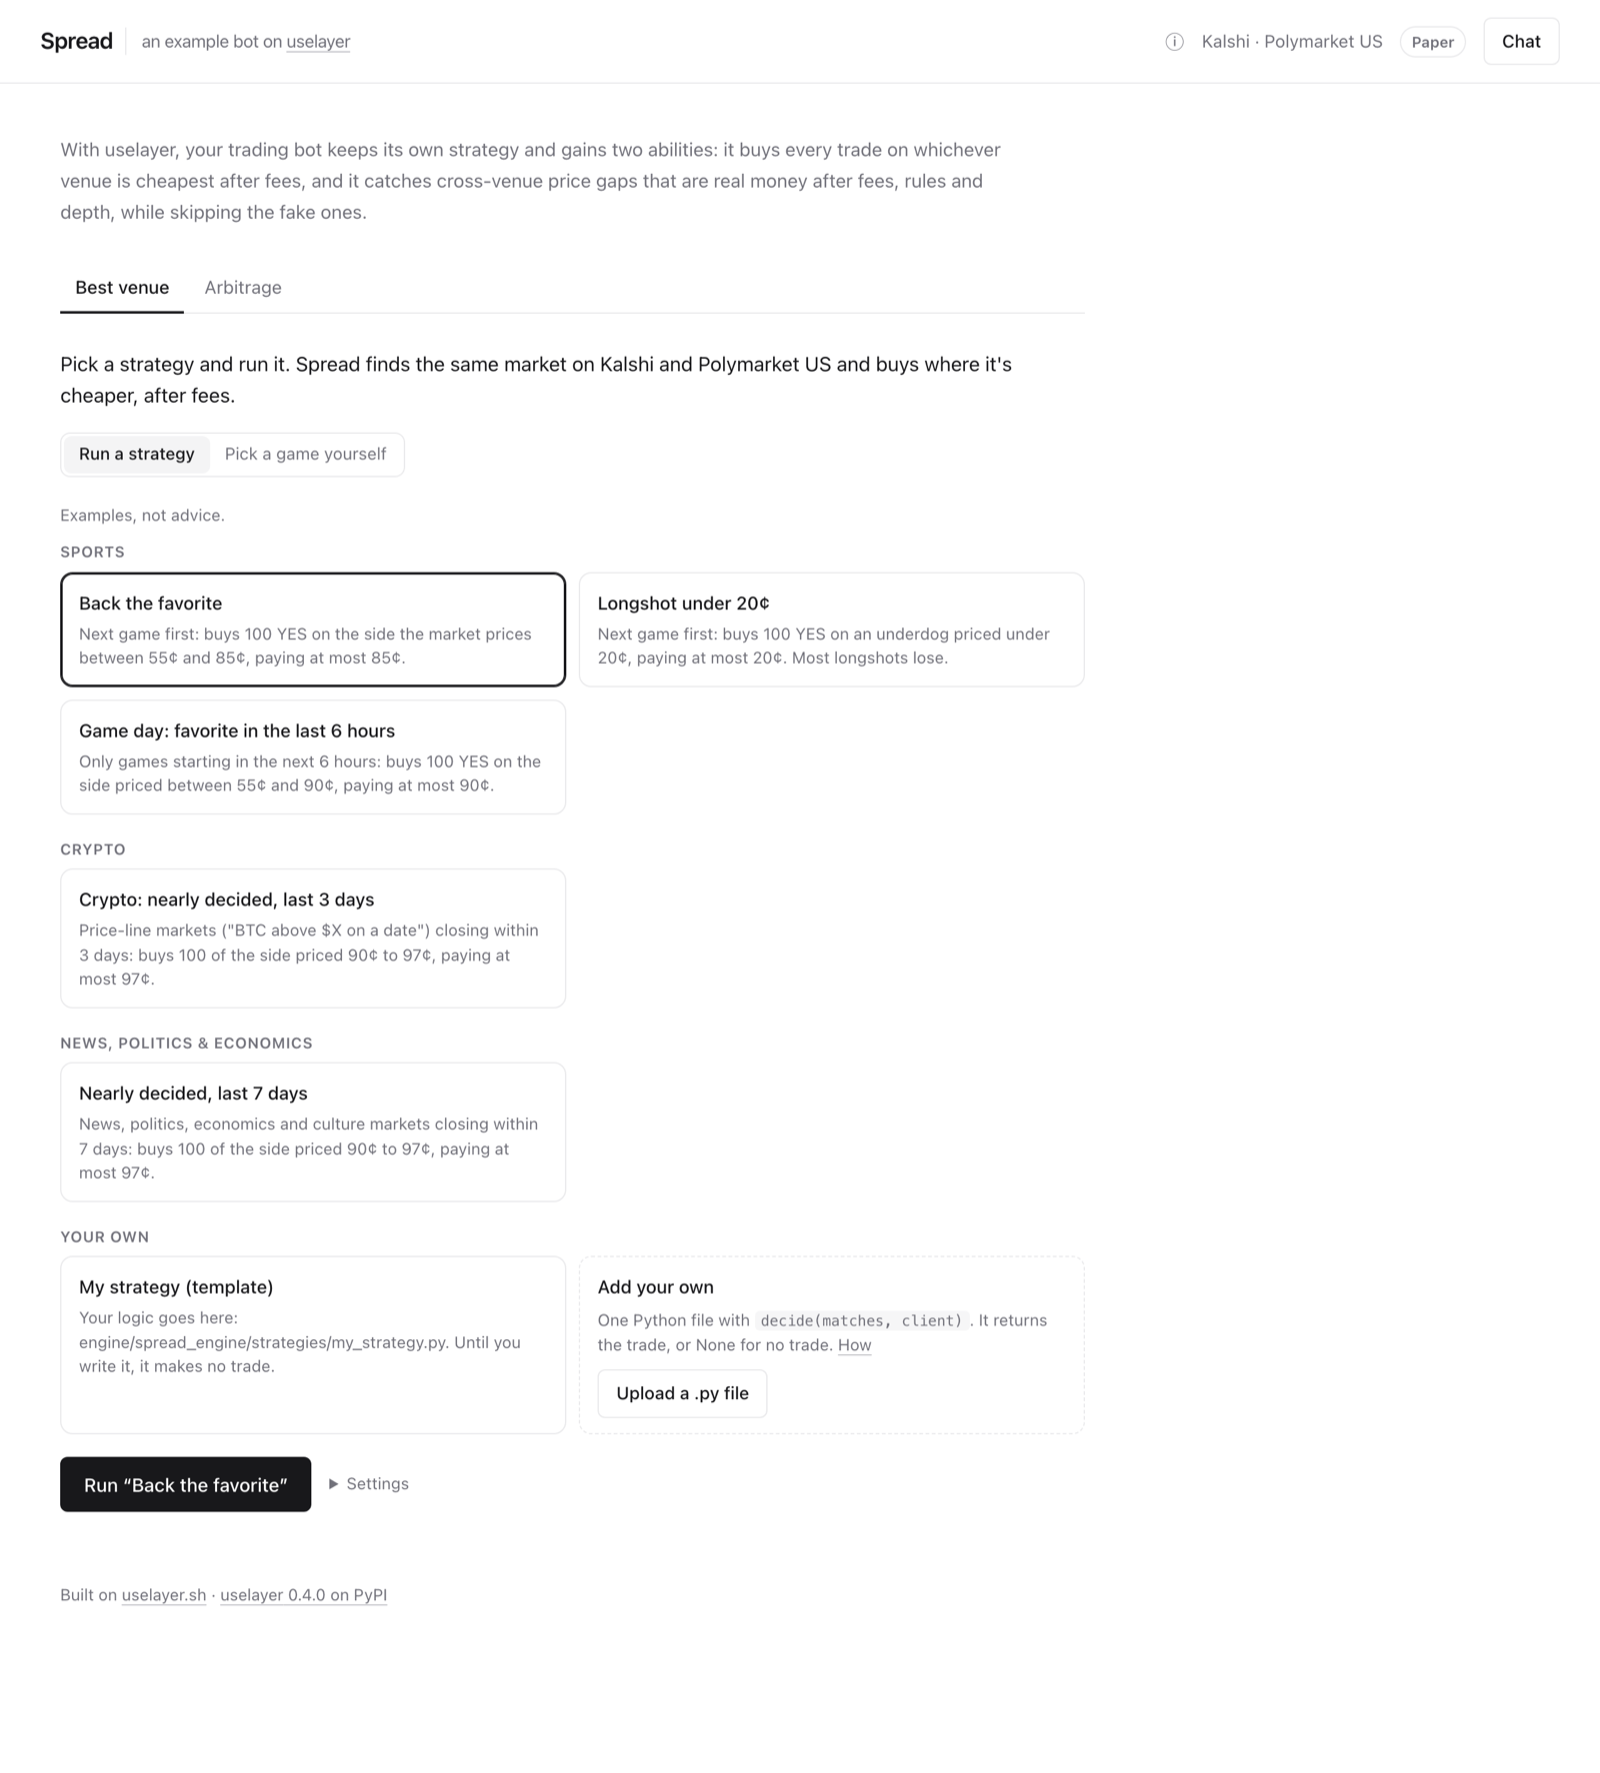
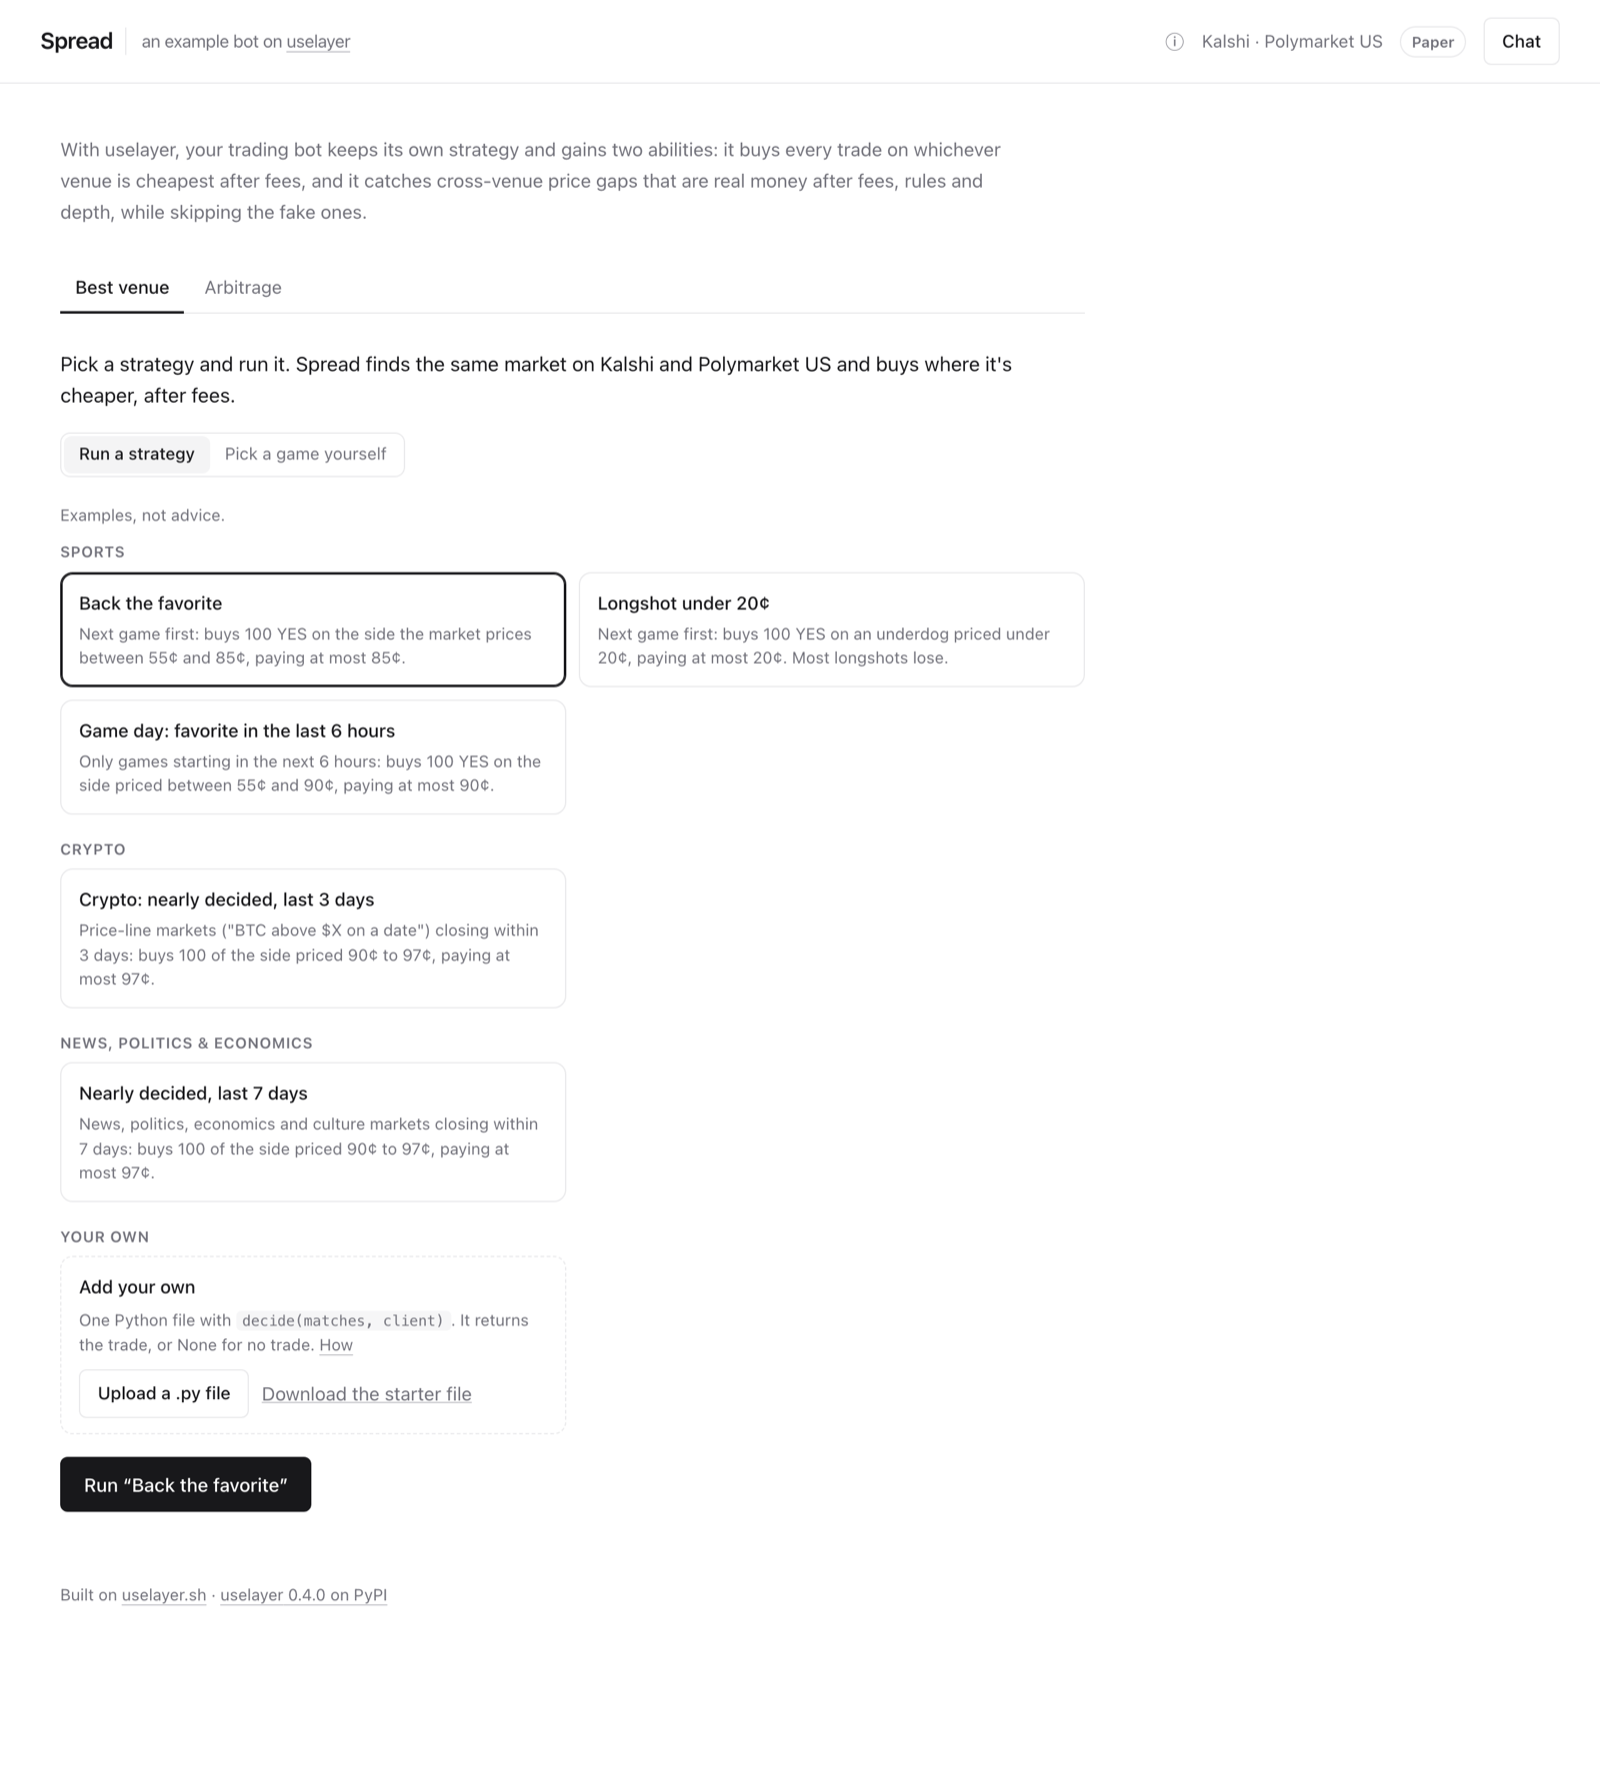
Best venue: starter file is a download, not a card; no search on the strategy path
- Engine: strategies.available() skips my_strategy.py (STARTER); new
  GET /strategies/starter returns its text; uploading over it is refused
  with one sentence. The file stays in the repo as the starting point.
- "Add your own" card: "Download the starter file" saves it as
  my_strategy.py through a client-side blob.
- Strategy path: the "Markets it looks at" search and its Settings fold
  are gone (each template picks its own markets). Pick a game yourself
  keeps its search.
- Tests, README, starter docstring and screenshots updated.

Changed region(s): [[0.0312, 0.7135, 0.3125, 0.8065], [0.375, 0.7135, 0.5625, 0.8065]]

diff --git a/components/BestVenue.tsx b/components/BestVenue.tsx
@@ -412,6 +412,19 @@ function AddYourOwn({ onAdded }: { onAdded: (b: StrategyList & { added: Strategy
   const [busy, setBusy] = useState(false);
   const input = useRef<HTMLInputElement>(null);
 
+  // The starter file (my_strategy.py), saved in the browser: edit it, rename it, upload it back.
+  async function download() {
+    try {
+      const b = await getJson<{ filename: string; code: string }>("/engine/strategies/starter");
+      const url = URL.createObjectURL(new Blob([b.code], { type: "text/x-python" }));
+      const a = Object.assign(document.createElement("a"), { href: url, download: b.filename });
+      a.click();
+      URL.revokeObjectURL(url);
+    } catch (e) {
+      setMsg({ text: e instanceof Error ? e.message : String(e), bad: true });
+    }
+  }
+
   async function send(file: File | undefined, again = false) {
     if (!file) return;
     setBusy(true);
@@ -445,6 +458,9 @@ function AddYourOwn({ onAdded }: { onAdded: (b: StrategyList & { added: Strategy
           {busy ? "Uploading…" : "Upload a .py file"}
         </button>
         <input ref={input} type="file" accept=".py" hidden onChange={(e) => send(e.target.files?.[0])} />
+        <button className="link" onClick={download}>
+          Download the starter file
+        </button>
         {replace && (
           <button className="btn quiet" onClick={() => send(replace, true)} disabled={busy}>
             Replace it
@@ -461,7 +477,6 @@ function StrategyMode({ mode }: { mode: "paper" | "live" }) {
   const [list, setList] = useState<StrategyInfo[] | null>(null);
   const [cats, setCats] = useState<string[]>([]);
   const [pick, setPick] = useState("sports_favorite");
-  const [q, setQ] = useState("");
   const [noTrade, setNoTrade] = useState<string | null>(null);
   const [looked, setLooked] = useState<Looked[] | null>(null);
   const [allLooked, setAllLooked] = useState(false);
@@ -488,12 +503,12 @@ function StrategyMode({ mode }: { mode: "paper" | "live" }) {
     setLooked(null);
     setAllLooked(false);
     try {
+      // Each strategy picks its own markets: no search here.
       const qs = new URLSearchParams({ strategy: pick, limit: "50" });
-      if (q.trim()) qs.set("q", q.trim());
       const r = await getJson<SignalResult>(`/engine/best/signal?${qs}`);
       if (r.signal) t.show(r.signal, "Your strategy picked", r.best);
       else {
-        setNoTrade(r.no_trade ?? `No trade: ${strategyNoTrade(r, !!q.trim())}`);
+        setNoTrade(r.no_trade ?? `No trade: ${strategyNoTrade(r)}`);
         setLooked(r.looked ?? []);
       }
     } catch (e) {
@@ -542,19 +557,6 @@ function StrategyMode({ mode }: { mode: "paper" | "live" }) {
         <button className="btn big" onClick={run} disabled={t.busy !== null || !runnable}>
           {t.busy === "run" ? "Running…" : chosen ? `Run “${chosen.name}”` : "Run strategy"}
         </button>
-        <details className="settings">
-          <summary>Settings</summary>
-          <label className="field">
-            Markets it looks at
-            <input
-              className="search"
-              value={q}
-              placeholder="search, e.g. nba (blank: all)"
-              onChange={(e) => setQ(e.target.value)}
-              onKeyDown={(e) => e.key === "Enter" && run()}
-            />
-          </label>
-        </details>
       </div>
 
       <Working t={t} label="Running the strategy, then checking prices on both venues" />

diff --git a/engine/spread_engine/strategies/__init__.py b/engine/spread_engine/strategies/__init__.py
@@ -42,6 +42,9 @@ YOURS = "Your own"
 CATEGORIES = (SPORTS, CRYPTO, NEWS, YOURS)  # the order the picker groups them in
 
 FOLDER = Path(__file__).resolve().parent
+# The starter file: where your own strategy begins. It never trades, so the picker doesn't list it;
+# the app offers it as a download instead (GET /strategies/starter).
+STARTER = "my_strategy"
 
 
 @dataclass(frozen=True)
@@ -253,7 +256,7 @@ def available() -> list[dict[str, Any]]:
     Grouped in :data:`CATEGORIES` order, then by ``ORDER``. A file that doesn't load is listed with
     ``error`` (one line) so it can be fixed, and can't be run.
     """
-    rows = [_row(*e) for e in _entries()]
+    rows = [_row(*e) for e in _entries() if e[0] != STARTER]
     return sorted(rows, key=lambda r: (CATEGORIES.index(r["category"]), r["order"], r["name"]))
 
 
@@ -268,6 +271,11 @@ def module(strategy_id: str) -> ModuleType:
 
 def get(strategy_id: str) -> Decide:
     return module(strategy_id).decide  # type: ignore[no-any-return]
+
+
+def starter() -> str:
+    """The starter file's text, to download and edit."""
+    return (FOLDER / f"{STARTER}.py").read_text()
 
 
 # ---- adding your own file -------------------------------------------------------------------------
@@ -297,6 +305,8 @@ def add(filename: str, code: str, *, replace: bool = False) -> dict[str, Any]:
     path = FOLDER / name
     sid = name[:-3]
     old = path.read_text() if path.exists() else None
+    if sid == STARTER:
+        raise BadStrategy(f"{name} is the starter file. Save yours under another name, e.g. momentum.py.")
     if old is not None:
         existing = next((r for r in available() if r["id"] == sid), None)
         if existing and existing["example"]:

diff --git a/engine/tests/test_strategies.py b/engine/tests/test_strategies.py
@@ -97,8 +97,7 @@ def test_templates_are_grouped_by_category_with_yours_last() -> None:
         ("Sports", "sports_game_day"),
         ("Crypto", "crypto_near_certain"),
         ("News, politics & economics", "news_near_certain"),
-        ("Your own", "my_strategy"),
-    ]
+    ]  # my_strategy.py, the starter file, isn't listed: it never trades. The app offers it as a download.
     for r in rows:
         assert r["name"] and r["description"] and r["error"] is None
         text = (r["name"] + r["description"]).lower()
@@ -249,6 +248,12 @@ def test_replacing_needs_a_yes_and_a_bad_replacement_keeps_the_old_file(folder: 
         strategies.add("mine_two.py", "def decide(:\n", replace=True)
     assert (folder / "mine_two.py").read_text() == GOOD
     assert strategies.add("mine_two.py", GOOD.replace('"Mine"', '"Mine 2"'), replace=True)["name"] == "Mine 2"
+
+
+def test_the_starter_file_cannot_be_replaced() -> None:
+    with pytest.raises(strategies.BadStrategy, match="my_strategy.py is the starter file"):
+        strategies.add("my_strategy.py", GOOD, replace=True)
+    assert "def decide(" in strategies.starter()
 
 
 def test_examples_cannot_be_replaced() -> None:

diff --git a/engine/spread_engine/strategies/my_strategy.py b/engine/spread_engine/strategies/my_strategy.py
@@ -1,8 +1,9 @@
-"""YOUR STRATEGY. Copy this file (e.g. to strategies/momentum.py), give it a NAME, write decide().
+"""YOUR STRATEGY: the starter file. Save a copy under a new name (e.g. strategies/momentum.py), give it a
+NAME, CATEGORY and DESCRIPTION, and write decide().
 
-It shows up in the app's strategy picker on the Best venue tab, under "Your own". Edits are picked up
-the next time you press "Run strategy"; a new file appears after you reload the page. You can also add
-a file from the app ("Add your strategy"), which saves it in this folder.
+This file itself isn't in the app's picker (it never trades). The Best venue tab's "Add your own" card
+offers it as a download; upload your edited copy there under its new name, or drop it in this folder
+and reload the page. Edits are picked up the next time you press Run.
 """
 
 from __future__ import annotations

diff --git a/engine/tests/test_app.py b/engine/tests/test_app.py
@@ -158,6 +158,13 @@ def test_add_a_strategy_from_the_app(engine, monkeypatch: pytest.MonkeyPatch, tm
         sys.modules.pop("spread_engine.strategies.mine_app", None)
 
 
+def test_the_starter_file_is_a_download_not_a_choice(engine) -> None:  # noqa: ANN001
+    c = local(engine.app)
+    body = c.get("/strategies/starter").json()
+    assert body["filename"] == "my_strategy.py" and "def decide(" in body["code"]
+    assert "my_strategy" not in [s["id"] for s in c.get("/strategies").json()["strategies"]]
+
+
 def test_no_trade_says_the_strategy_sentence(engine, monkeypatch: pytest.MonkeyPatch) -> None:  # noqa: ANN001
     asked: list = []
 

diff --git a/engine/spread_engine/app.py b/engine/spread_engine/app.py
@@ -254,6 +254,12 @@ def list_strategies() -> dict[str, Any]:
     return {"categories": list(strategies.CATEGORIES), "strategies": strategies.available()}
 
 
+@app.get("/strategies/starter")
+def strategy_starter() -> dict[str, Any]:
+    """The starter file (my_strategy.py) to download and make your own. It isn't in the picker."""
+    return {"filename": f"{strategies.STARTER}.py", "code": strategies.starter()}
+
+
 class StrategyFile(BaseModel):
     filename: str = Field(max_length=60)
     code: str

diff --git a/README.md b/README.md
@@ -66,9 +66,11 @@ Each one looks only at markets that are open on both venues, worded the same on 
 
 ### Add your own
 
-1. Copy the template: `cp engine/spread_engine/strategies/my_strategy.py engine/spread_engine/strategies/momentum.py`. Or press "Upload a .py file" on the "Add your own" card of the Best venue screen: it saves your file in that folder and selects it.
+1. Start from the starter file: `cp engine/spread_engine/strategies/my_strategy.py engine/spread_engine/strategies/momentum.py`, or press "Download the starter file" on the "Add your own" card of the Best venue screen and save it under a new name.
 2. Give it a `NAME`, a `CATEGORY` and a one-line `DESCRIPTION`, and write `decide()`: which market, YES or NO, how many contracts, the most you'll pay.
-3. Reload the page and pick its card. Edits to a strategy apply on the next run, without a restart.
+3. Press "Upload a .py file" on the same card: it saves your file in that folder and selects it. (A file you copied into the folder shows up when you reload the page.) Edits to a strategy apply on the next run, without a restart.
+
+The starter file itself isn't in the list, since it never trades.
 
 ```python
 from . import SPORTS, NoTrade, Signal, priced
